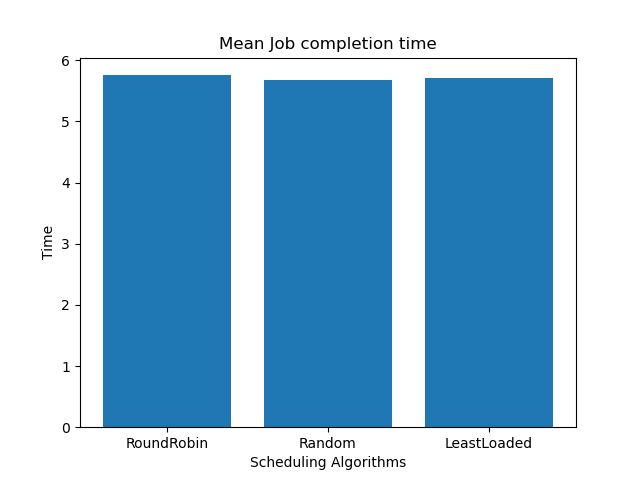
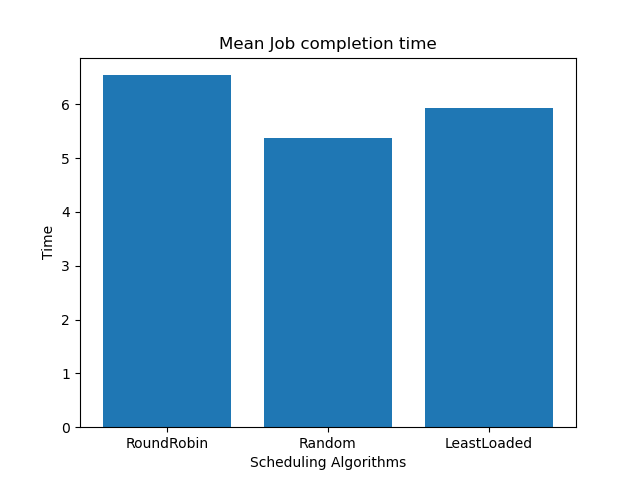
Fin.

diff --git a/analysis.py b/analysis.py
@@ -72,8 +72,8 @@ class calc_time:
         mean = calc.mean()
         median = calc.median()
 
-        print("The mean ", self.file[5:-4], " completion time is: ", mean, " seconds")
-        print("The median ", self.file[5:-4], " completion time is: ", median, " seconds")
+        print("The mean ", self.file[:-4], " completion time is: ", mean, " seconds")
+        print("The median ", self.file[:-4], " completion time is: ", median, " seconds")
         print("\n")
 
         return mean, median

diff --git a/README.md b/README.md
@@ -25,5 +25,5 @@ How to run: (Use separate terminal for each one)
 2. Run `python3 worker.py 4001 2`
 3. Run `python3 worker.py 4002 3`
 4. Run `python3 master.py config.json RR` (Acceptable options: RR - Round Robin | R - Random | LL - Least Loaded)
-5. Run `python3 requests.py 10`
-6. Run `python3 log_analysis.py 3`
+5. Run `python3 requests.py 30`
+6. Run `python3 log_analysis.py`
